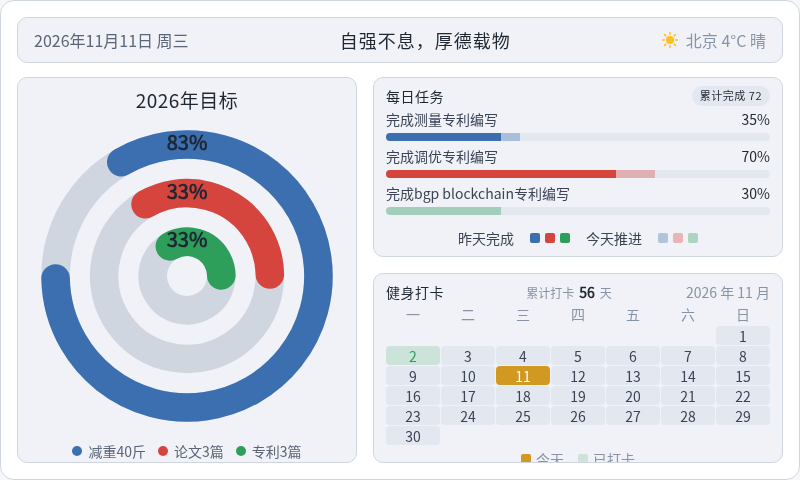
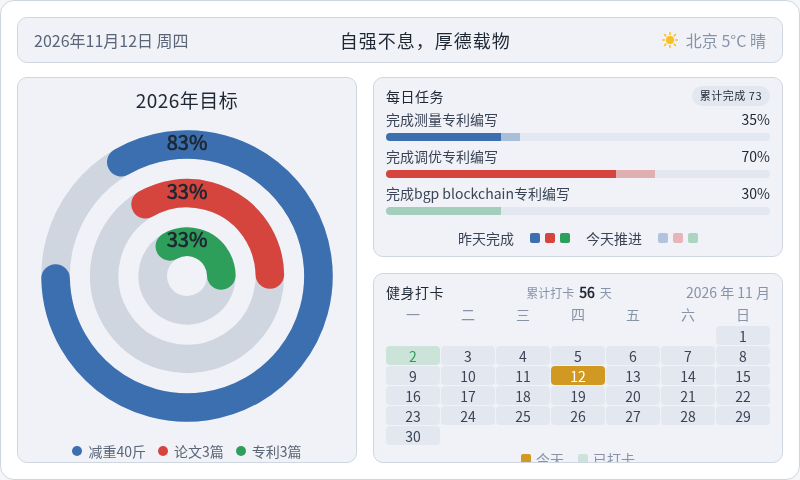
chore: 每日看板刷新 2026-11-12

Changed region(s): [[0.5938, 0.75, 0.7812, 0.8125], [0.2188, 0.0625, 0.25, 0.0938]]

diff --git a/output/dashboard/dashboard.html b/output/dashboard/dashboard.html
@@ -185,11 +185,11 @@
 <body>
   <div class="dash">
     <div class="topbar">
-      <div class="tb-date" id="tbDate">2026年11月11日 周三</div>
+      <div class="tb-date" id="tbDate">2026年11月12日 周四</div>
       <div class="tb-slogan">自强不息，厚德载物</div>
       <div class="tb-weather">
         <svg width="16" height="16" viewBox="0 0 16 16" aria-hidden="true"><circle cx="8" cy="8" r="4" fill="#fbbf24"/><g stroke="#fbbf24" stroke-width="1.5" stroke-linecap="round"><line x1="8" y1="0.5" x2="8" y2="2.5"/><line x1="8" y1="13.5" x2="8" y2="15.5"/><line x1="0.5" y1="8" x2="2.5" y2="8"/><line x1="13.5" y1="8" x2="15.5" y2="8"/><line x1="2.5" y1="2.5" x2="3.9" y2="3.9"/><line x1="12.1" y1="12.1" x2="13.5" y2="13.5"/><line x1="13.5" y1="2.5" x2="12.1" y2="3.9"/><line x1="3.9" y1="12.1" x2="2.5" y2="13.5"/></g></svg>
-        <span>北京 4°C 晴</span>
+        <span>北京 5°C 晴</span>
       </div>
     </div>
     <div class="content">
@@ -210,7 +210,7 @@
     </div>
     <div class="col-right">
       <div class="panel tasks-panel">
-        <div class="panel-title" style="color:#1f2733">每日任务<span class="task-done-count">累计完成  72</span></div>
+        <div class="panel-title" style="color:#1f2733">每日任务<span class="task-done-count">累计完成  73</span></div>
         <div class="task">
           <div class="task-head"><span style="color:#3a4456">完成测量专利编写</span><span class="task-val" style="color:#1f2733">35%</span></div>
           <div class="bar">
@@ -248,7 +248,7 @@
           <span class="cal-date">2026 年 11 月</span>
         </div>
         <div class="cal-grid wk"><span>一</span><span>二</span><span>三</span><span>四</span><span>五</span><span>六</span><span>日</span></div>
-        <div class="cal-grid"><span class="cell empty"></span><span class="cell empty"></span><span class="cell empty"></span><span class="cell empty"></span><span class="cell empty"></span><span class="cell empty"></span><span class="cell" style="background:#e3e8f0;color:#3a4456">1</span><span class="cell done" style="background:rgba(46,158,91,0.18);color:#2e9e5b">2</span><span class="cell" style="background:#e3e8f0;color:#3a4456">3</span><span class="cell" style="background:#e3e8f0;color:#3a4456">4</span><span class="cell" style="background:#e3e8f0;color:#3a4456">5</span><span class="cell" style="background:#e3e8f0;color:#3a4456">6</span><span class="cell" style="background:#e3e8f0;color:#3a4456">7</span><span class="cell" style="background:#e3e8f0;color:#3a4456">8</span><span class="cell" style="background:#e3e8f0;color:#3a4456">9</span><span class="cell" style="background:#e3e8f0;color:#3a4456">10</span><span class="cell today" style="background:#d29922;color:#ffffff">11</span><span class="cell" style="background:#e3e8f0;color:#3a4456">12</span><span class="cell" style="background:#e3e8f0;color:#3a4456">13</span><span class="cell" style="background:#e3e8f0;color:#3a4456">14</span><span class="cell" style="background:#e3e8f0;color:#3a4456">15</span><span class="cell" style="background:#e3e8f0;color:#3a4456">16</span><span class="cell" style="background:#e3e8f0;color:#3a4456">17</span><span class="cell" style="background:#e3e8f0;color:#3a4456">18</span><span class="cell" style="background:#e3e8f0;color:#3a4456">19</span><span class="cell" style="background:#e3e8f0;color:#3a4456">20</span><span class="cell" style="background:#e3e8f0;color:#3a4456">21</span><span class="cell" style="background:#e3e8f0;color:#3a4456">22</span><span class="cell" style="background:#e3e8f0;color:#3a4456">23</span><span class="cell" style="background:#e3e8f0;color:#3a4456">24</span><span class="cell" style="background:#e3e8f0;color:#3a4456">25</span><span class="cell" style="background:#e3e8f0;color:#3a4456">26</span><span class="cell" style="background:#e3e8f0;color:#3a4456">27</span><span class="cell" style="background:#e3e8f0;color:#3a4456">28</span><span class="cell" style="background:#e3e8f0;color:#3a4456">29</span><span class="cell" style="background:#e3e8f0;color:#3a4456">30</span></div>
+        <div class="cal-grid"><span class="cell empty"></span><span class="cell empty"></span><span class="cell empty"></span><span class="cell empty"></span><span class="cell empty"></span><span class="cell empty"></span><span class="cell" style="background:#e3e8f0;color:#3a4456">1</span><span class="cell done" style="background:rgba(46,158,91,0.18);color:#2e9e5b">2</span><span class="cell" style="background:#e3e8f0;color:#3a4456">3</span><span class="cell" style="background:#e3e8f0;color:#3a4456">4</span><span class="cell" style="background:#e3e8f0;color:#3a4456">5</span><span class="cell" style="background:#e3e8f0;color:#3a4456">6</span><span class="cell" style="background:#e3e8f0;color:#3a4456">7</span><span class="cell" style="background:#e3e8f0;color:#3a4456">8</span><span class="cell" style="background:#e3e8f0;color:#3a4456">9</span><span class="cell" style="background:#e3e8f0;color:#3a4456">10</span><span class="cell" style="background:#e3e8f0;color:#3a4456">11</span><span class="cell today" style="background:#d29922;color:#ffffff">12</span><span class="cell" style="background:#e3e8f0;color:#3a4456">13</span><span class="cell" style="background:#e3e8f0;color:#3a4456">14</span><span class="cell" style="background:#e3e8f0;color:#3a4456">15</span><span class="cell" style="background:#e3e8f0;color:#3a4456">16</span><span class="cell" style="background:#e3e8f0;color:#3a4456">17</span><span class="cell" style="background:#e3e8f0;color:#3a4456">18</span><span class="cell" style="background:#e3e8f0;color:#3a4456">19</span><span class="cell" style="background:#e3e8f0;color:#3a4456">20</span><span class="cell" style="background:#e3e8f0;color:#3a4456">21</span><span class="cell" style="background:#e3e8f0;color:#3a4456">22</span><span class="cell" style="background:#e3e8f0;color:#3a4456">23</span><span class="cell" style="background:#e3e8f0;color:#3a4456">24</span><span class="cell" style="background:#e3e8f0;color:#3a4456">25</span><span class="cell" style="background:#e3e8f0;color:#3a4456">26</span><span class="cell" style="background:#e3e8f0;color:#3a4456">27</span><span class="cell" style="background:#e3e8f0;color:#3a4456">28</span><span class="cell" style="background:#e3e8f0;color:#3a4456">29</span><span class="cell" style="background:#e3e8f0;color:#3a4456">30</span></div>
         <div class="cal-legend">
           <span style="color:#8893a7"><i class="sw" style="background:#d29922"></i>今天</span>
           <span style="color:#8893a7"><i class="sw" style="background:rgba(46,158,91,0.18)"></i>已打卡</span>
